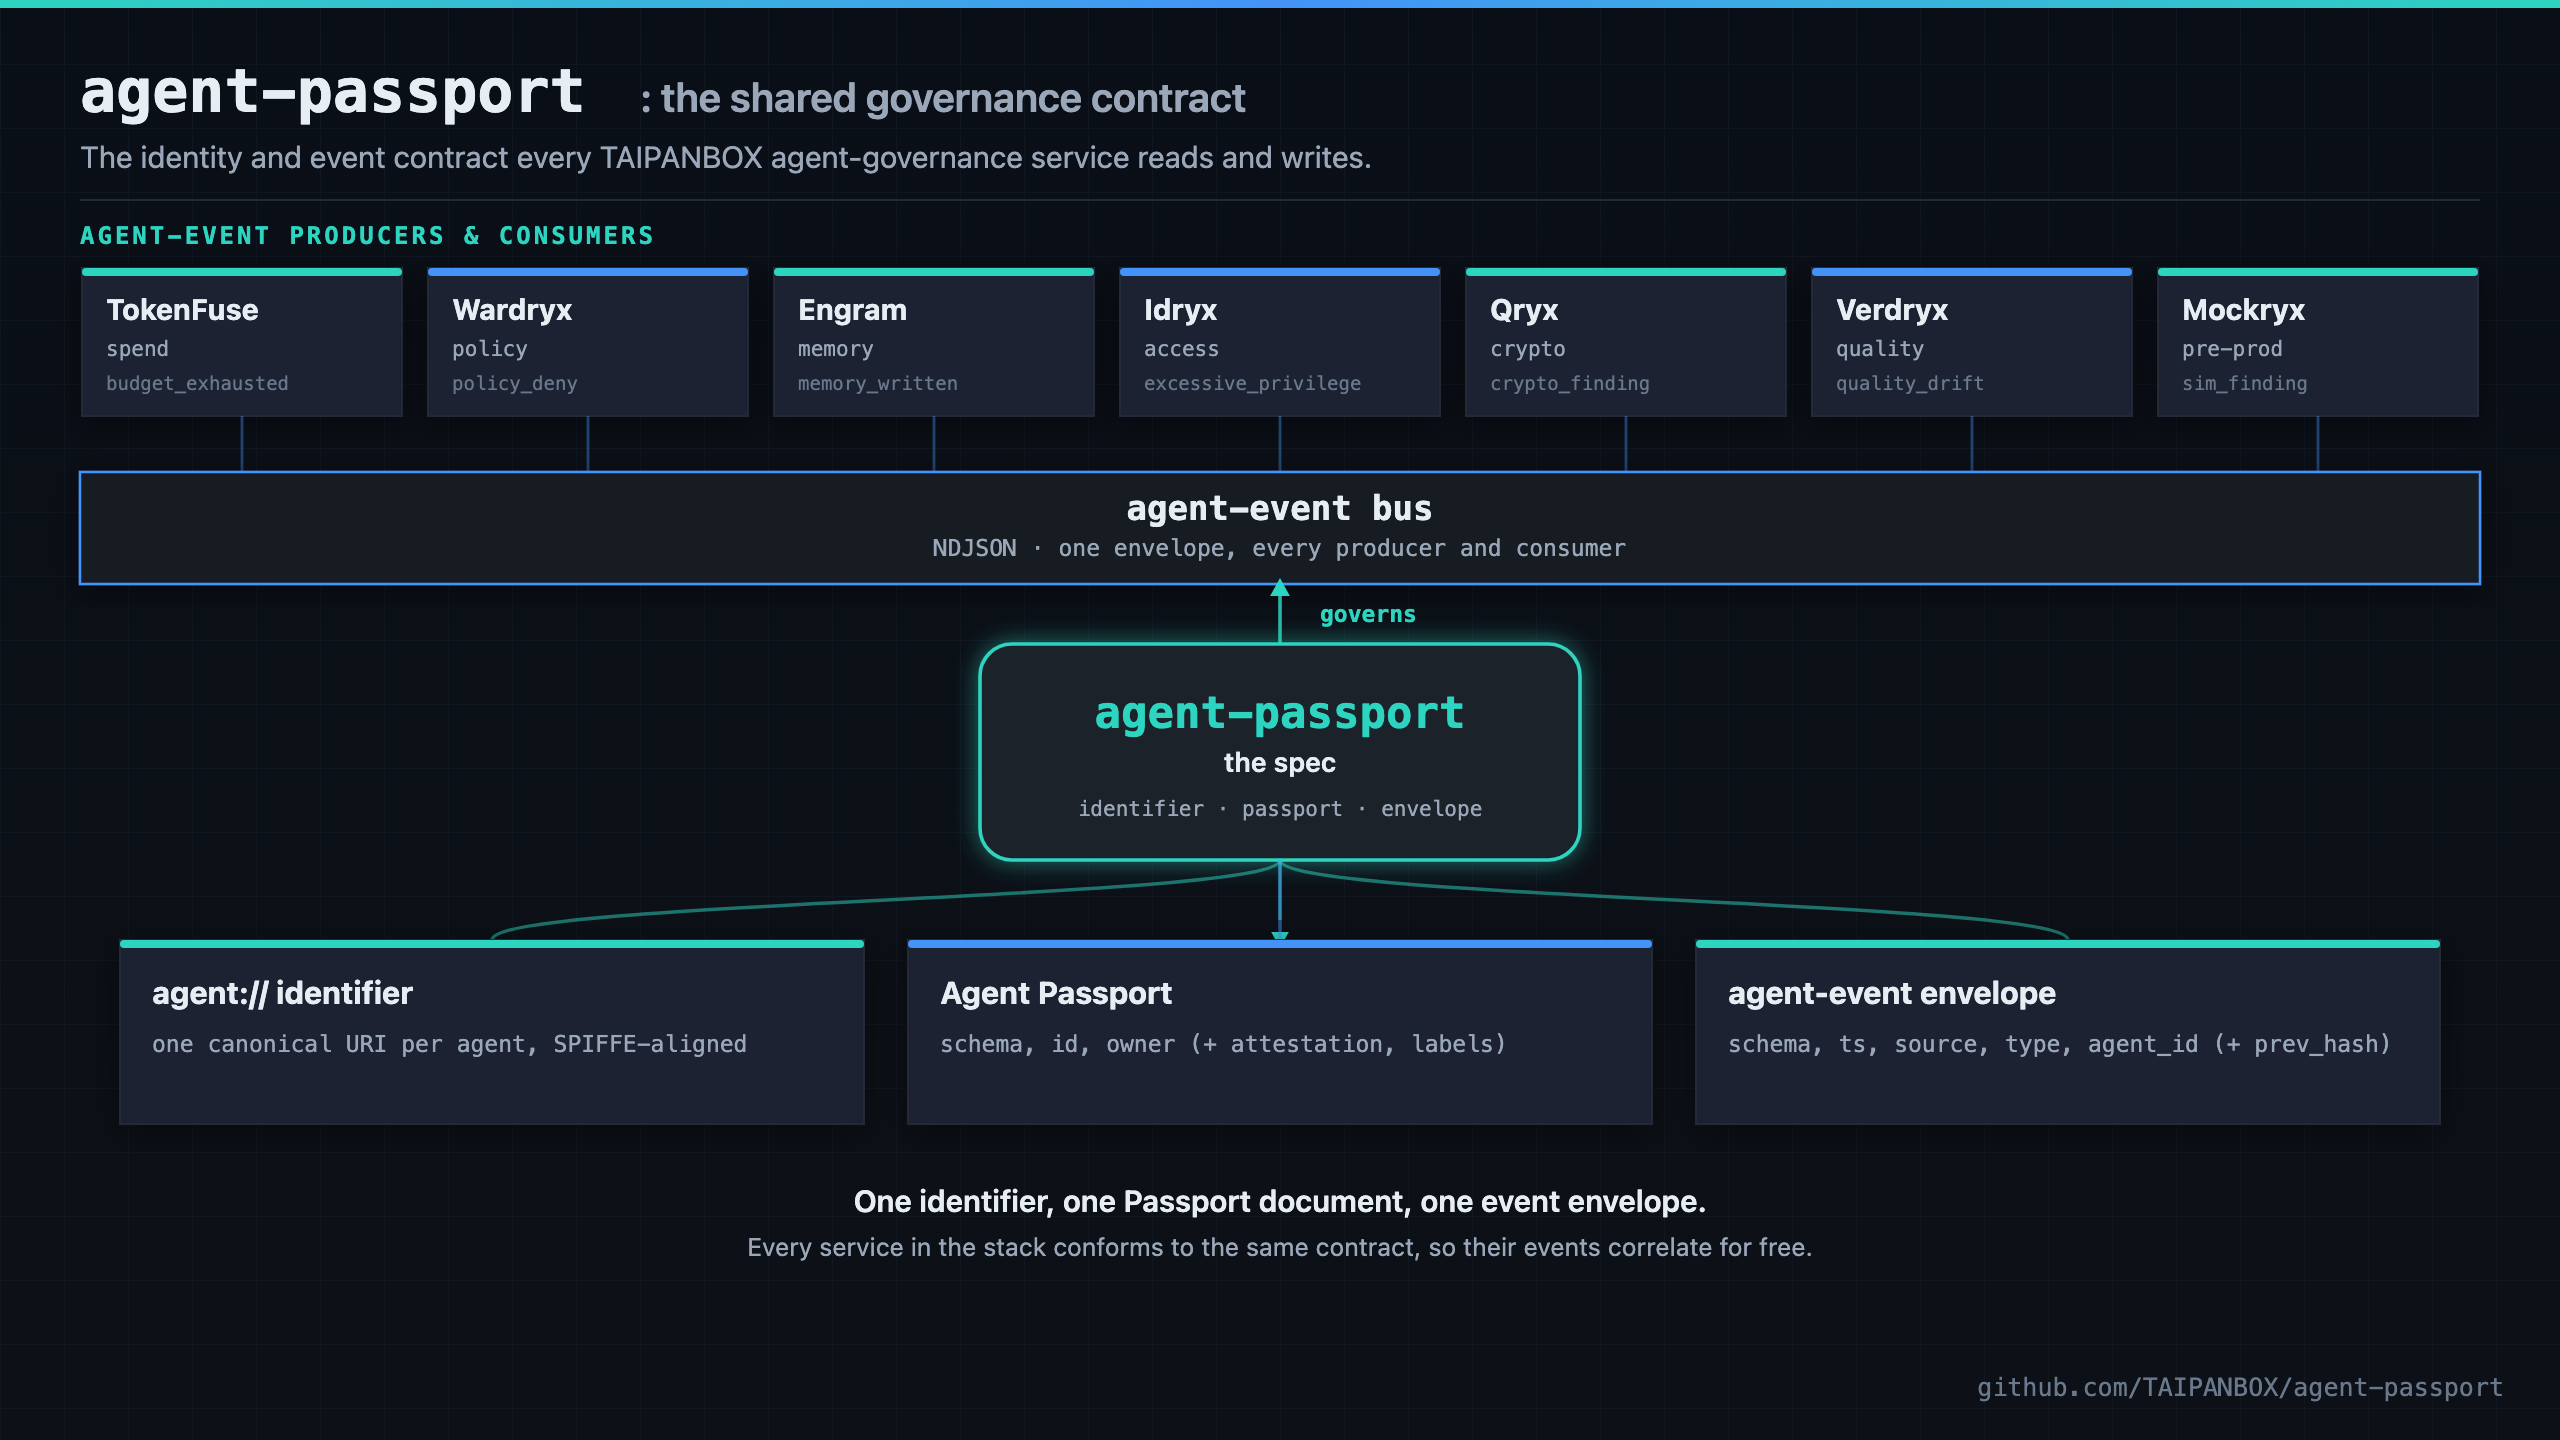
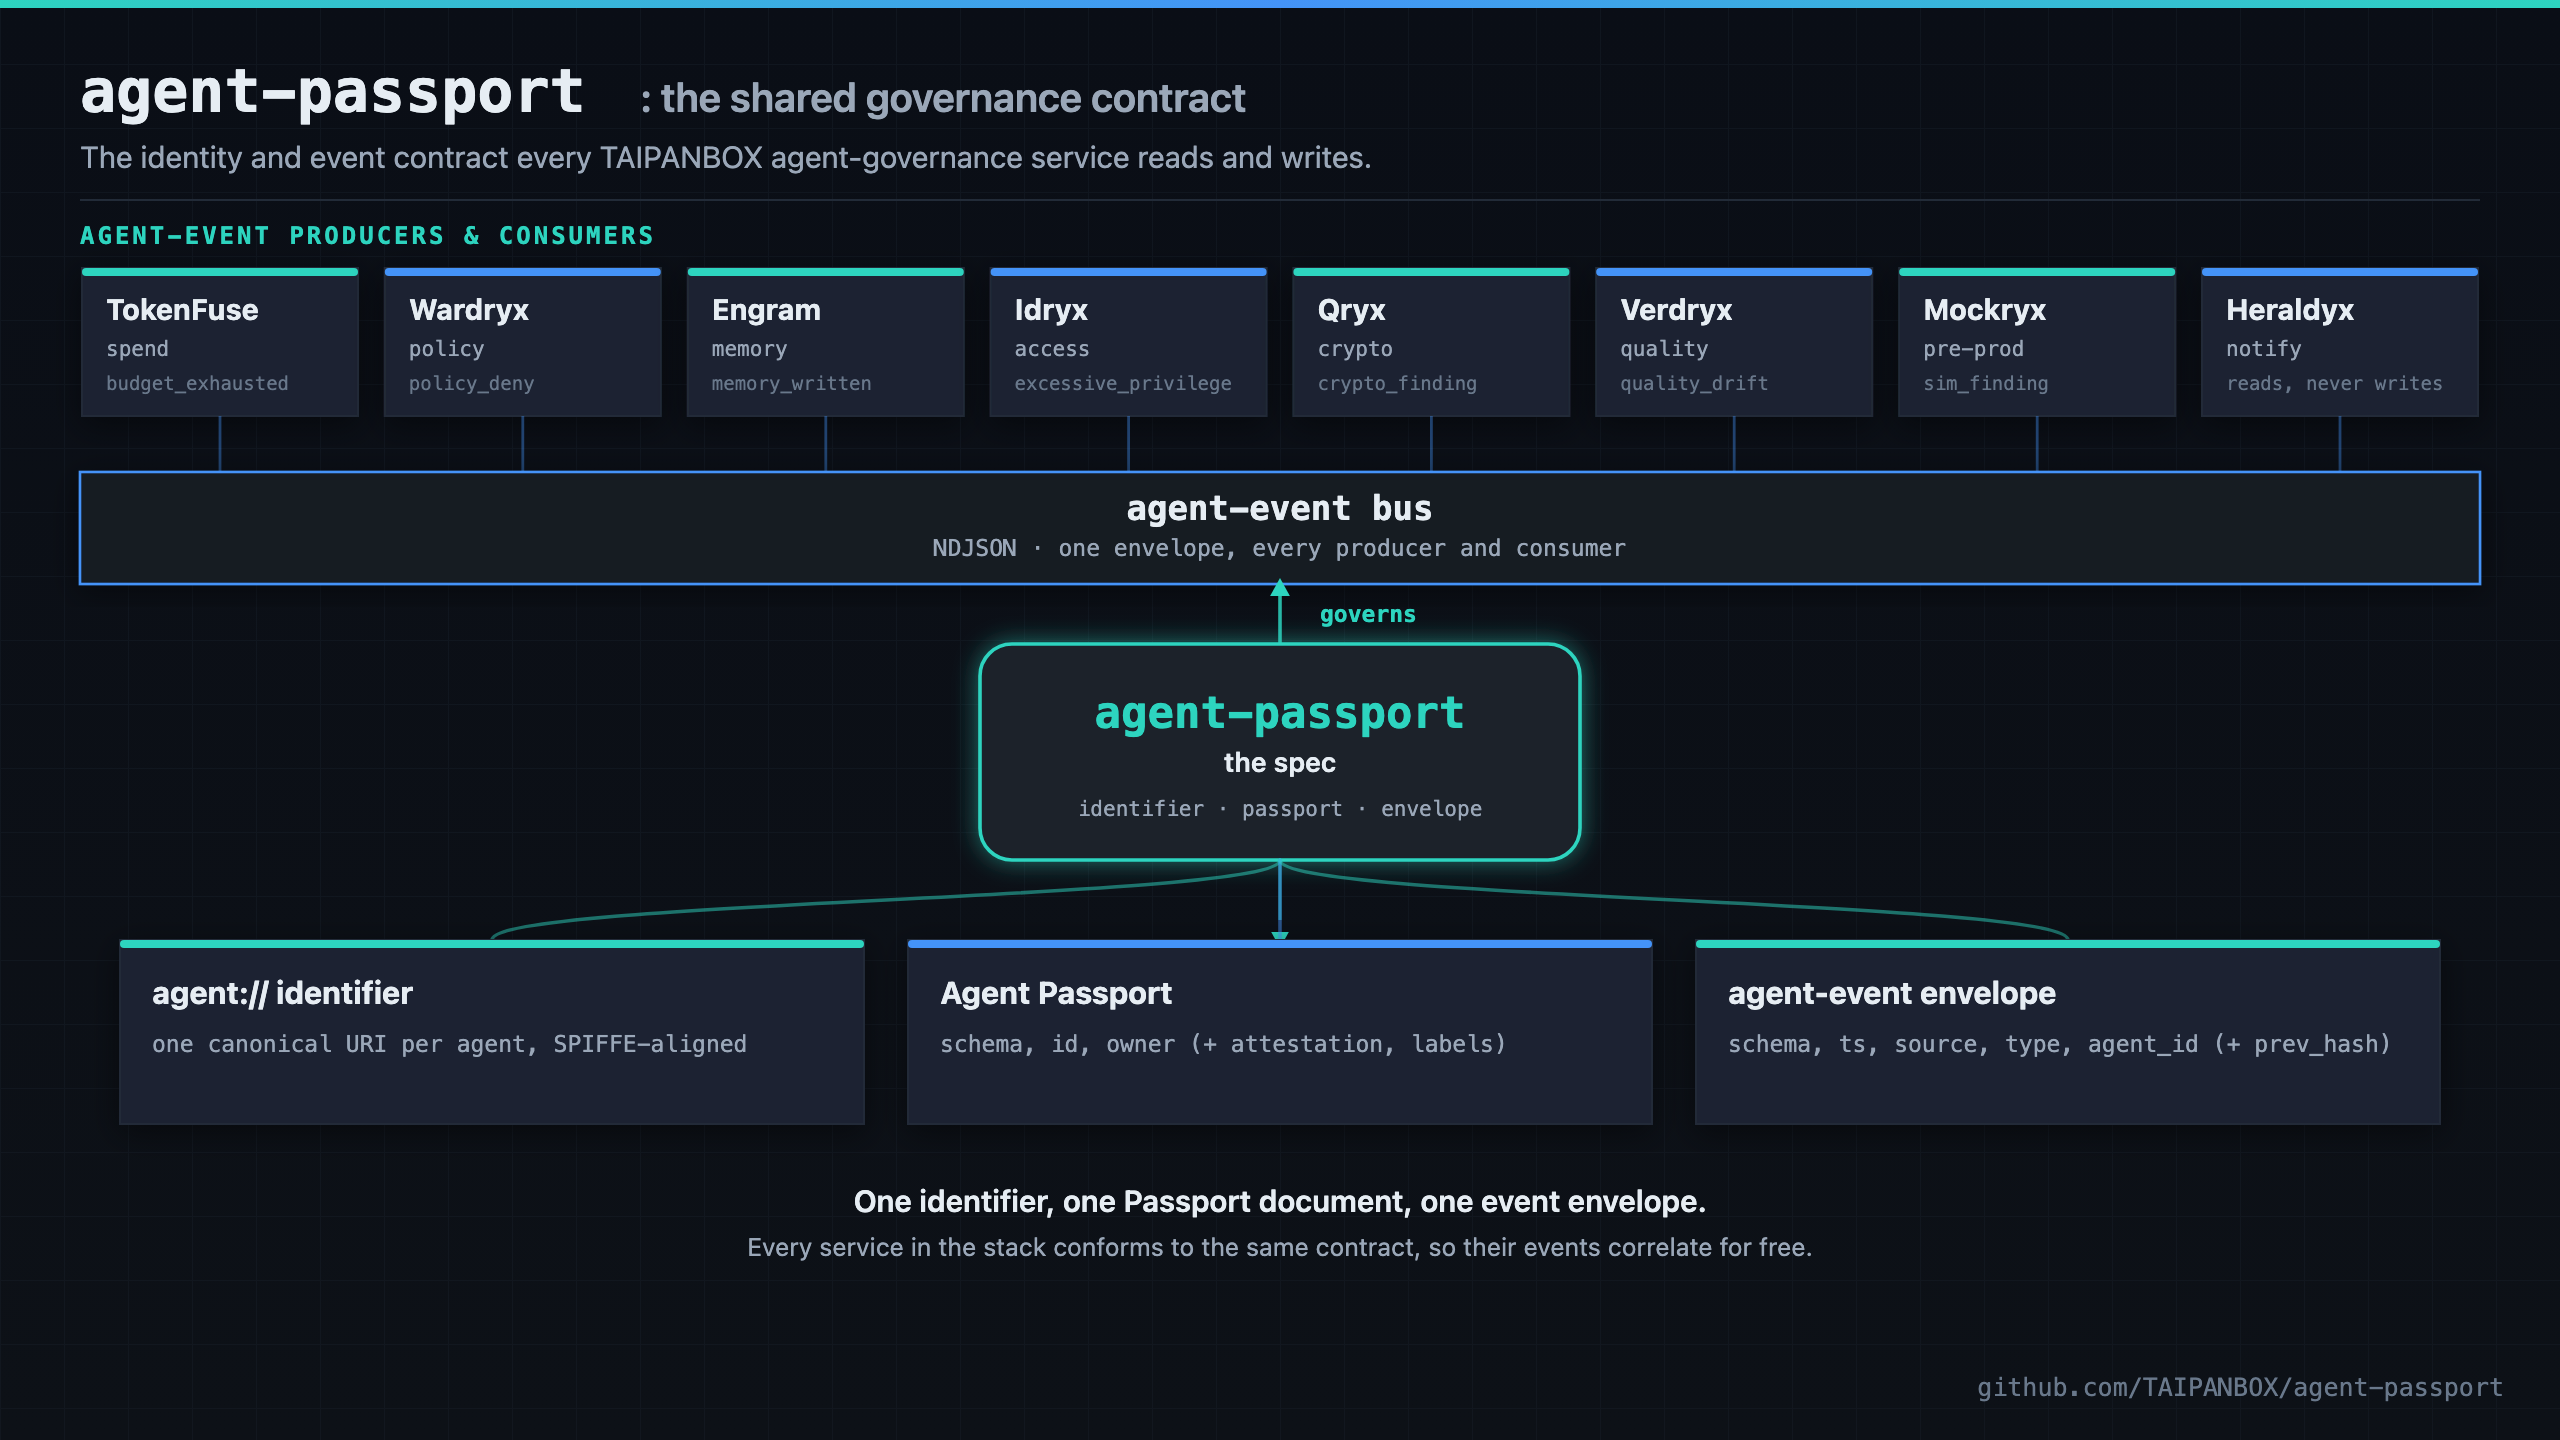
docs: the architecture picture counted seven under a header promising consumers
The row is labelled AGENT-EVENT PRODUCERS & CONSUMERS and held seven boxes,
none of them the one component in the stack that is only ever a consumer.
Both files date from 2026-07-10 and predate heraldyx, and the README shows
the PNG, so the raster is the one a reader actually meets.

Eight boxes now fill the same span the seven filled: width 138 at a pitch of
151.43, the last edge landing on 1239 with the bus at 1240, and a connector
per box. Heraldyx carries `notify` and, where every other box names an event
type it writes, the words `reads, never writes`. That break in the pattern is
deliberate: putting a snake_case type there would be inventing an event this
component does not emit, and the header already promises both kinds.

The PNG is regenerated at the 2560x1440 the old one was, and the type in it
is pixel-identical to the old one in the parts that did not move, so the
replacement changes the spacing and nothing about the style.

Left alone: `all seven of its names` further down is about Idryx's detection
names, and the event-type table needs no heraldyx row, because a row there
claims the source WRITES those types and this one writes none.

Changed region(s): [[0.25, 0.1875, 0.9688, 0.2812], [0.125, 0.1875, 0.2188, 0.2812]]

diff --git a/README.md b/README.md
@@ -10,7 +10,7 @@
 ![License](https://img.shields.io/badge/license-Apache--2.0-blue.svg)
 ![Status](https://img.shields.io/badge/status-accepted-success.svg)
 
-<img src="docs/architecture.png" alt="agent-passport architecture: seven TAIPANBOX services (TokenFuse, Wardryx, Engram, Idryx, Qryx, Verdryx, Mockryx) produce and consume the agent-event bus, which the agent-passport spec governs and which yields three artifacts: the agent:// identifier, the Agent Passport document, and the agent-event envelope" width="960">
+<img src="docs/architecture.png" alt="agent-passport architecture: eight TAIPANBOX services (TokenFuse, Wardryx, Engram, Idryx, Qryx, Verdryx, Mockryx, Heraldyx) produce and consume the agent-event bus, which the agent-passport spec governs and which yields three artifacts: the agent:// identifier, the Agent Passport document, and the agent-event envelope" width="960">
 
 </div>
 
